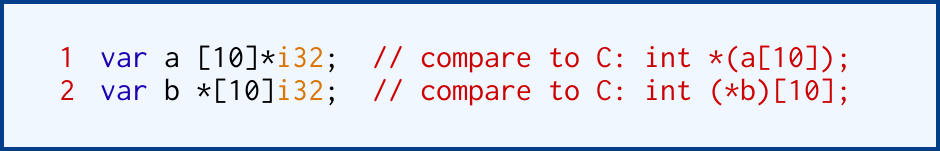
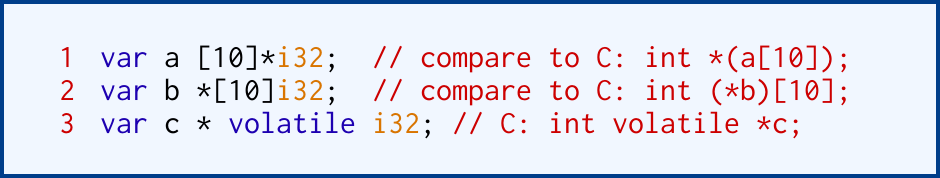
Add a line about volatility so it's clear DEF has it.

diff --git a/implementation.tex b/implementation.tex
@@ -13,7 +13,7 @@ Finally, the suite of microbenchmarks was developed in DEF and C with the driver
         \label{fig:types}
 \end{figure}
 
-Syntactically, DEF has some similarity to C with the most apparent difference being that scopes are denoted by keywords instead of curly braces (e.g., \texttt{if}/\texttt{then} and \texttt{fi}, \texttt{do} and \texttt{od}, etc.) allowing curly braces to be repurposed for tuples.  Native types specify a bit width, so C's \texttt{int} on most systems corresponds to DEF's \texttt{i32}.  Types are also designed to read left-to-right, so the return type in a function declaration has been moved to the right using an arrow notation similar to ML-like languages or Go.  For more complicated types, fig.~\ref{fig:types} gives an example of left-to-rightness where no parentheses are needed to distinguish an array of pointers to integers (line 1) from a pointer to an array of integers (line 2).
+Syntactically, DEF has some similarity to C with the most apparent difference being that scopes are denoted by keywords instead of curly braces (e.g., \texttt{if}/\texttt{then} and \texttt{fi}, \texttt{do} and \texttt{od}, etc.) allowing curly braces to be repurposed for tuples.  Native types specify a bit width, so C's \texttt{int} on most systems corresponds to DEF's \texttt{i32}.  Types are also designed to read left-to-right, so the return type in a function declaration has been moved to the right using an arrow notation similar to ML-like languages or Go.  For more complicated types, fig.~\ref{fig:types} gives an example of left-to-rightness where no parentheses are needed to distinguish an array of pointers to integers (line 1) from a pointer to an array of integers (line 2).  Volatility behaves the same as C, but the \texttt{volatile} keyword modifies only the part of the type to its right (line 3).
 
 The expressibility is equivalent to C.  Arrays, for example, contain no metadata and can appear on the stack or on the heap.  DEF is able to commit to native integers and floating point variables of specific width, however, because architectures have largely settled on them.  C acknowledges this as of the C99 standard with types like \texttt{int32\_t} defined in the \texttt{stdint.h} header file.\cite{C99FWInts}
 
